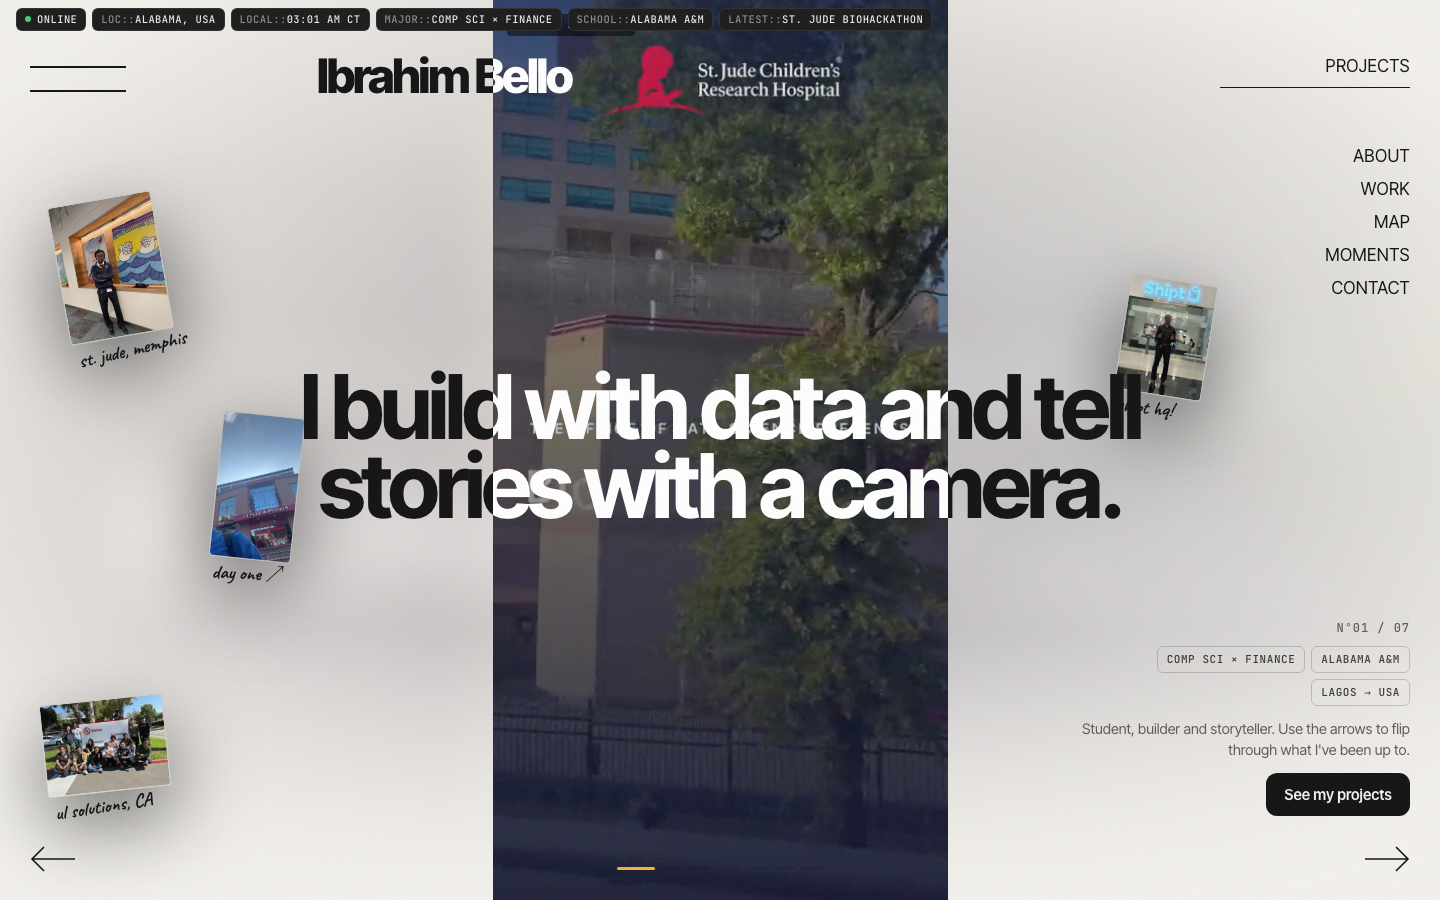
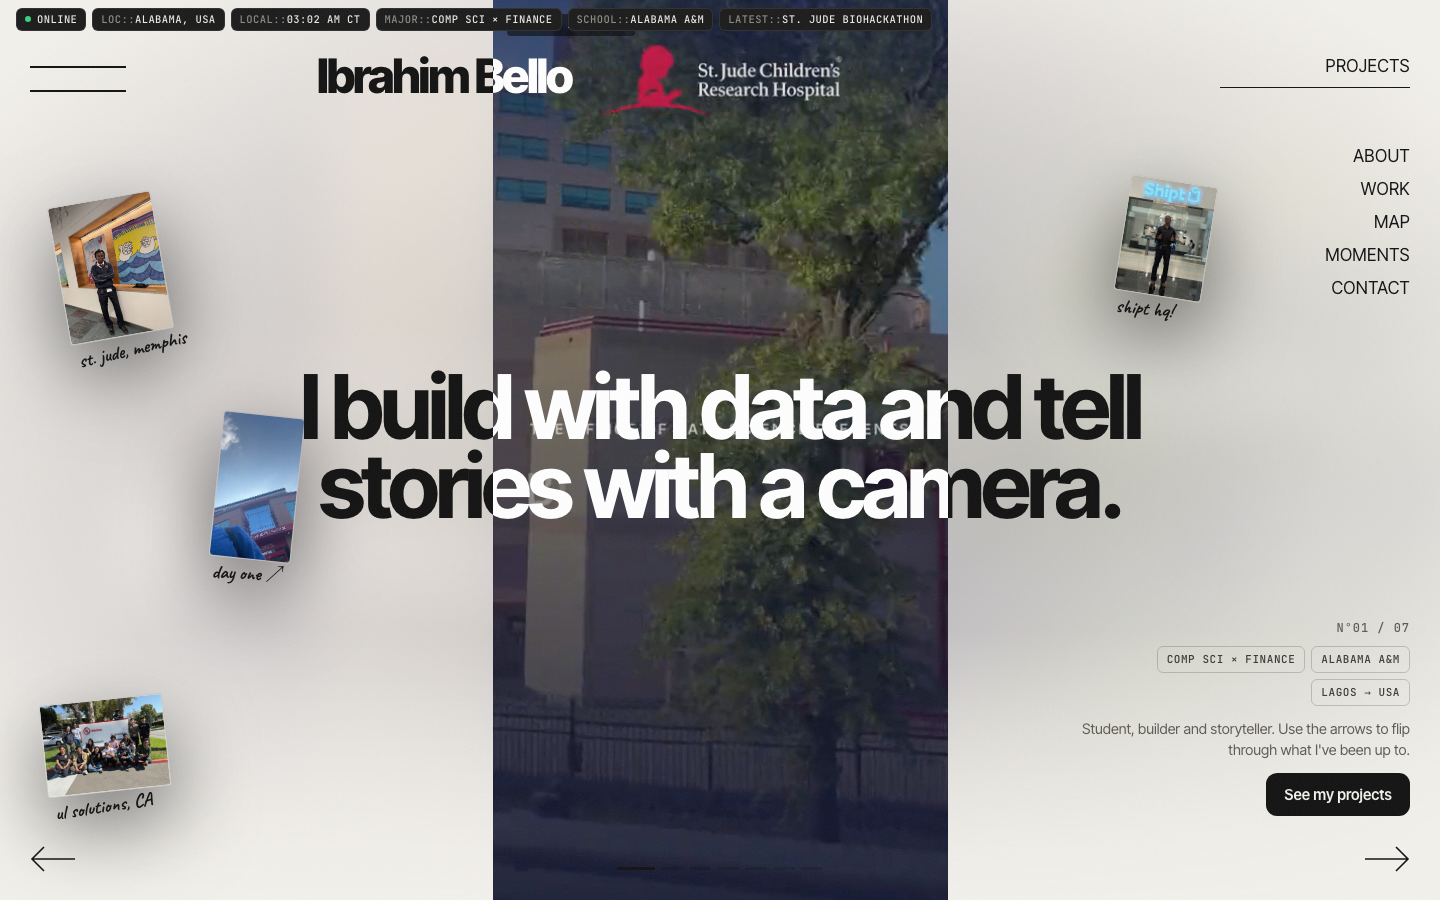
Re-measure the hero frame on resize

diff --git a/index.html b/index.html
@@ -578,7 +578,7 @@ SLIDES.forEach((p, i) => {
 });
 function clipLight() {
   // snap the frame to whole pixels so the black/white cut lands exactly on its edge
-  edFrame.style.translate = "0 0"; edFrame.style.left = "50%";
+  edFrame.style.width = ""; edFrame.style.translate = "0 0"; edFrame.style.left = "50%";
   const w = Math.round(edFrame.getBoundingClientRect().width);
   edFrame.style.width = w + "px"; edFrame.style.left = Math.round(($("#top").clientWidth - w) / 2) + "px";
   const sec = $("#top").getBoundingClientRect(), f = edFrame.getBoundingClientRect();
